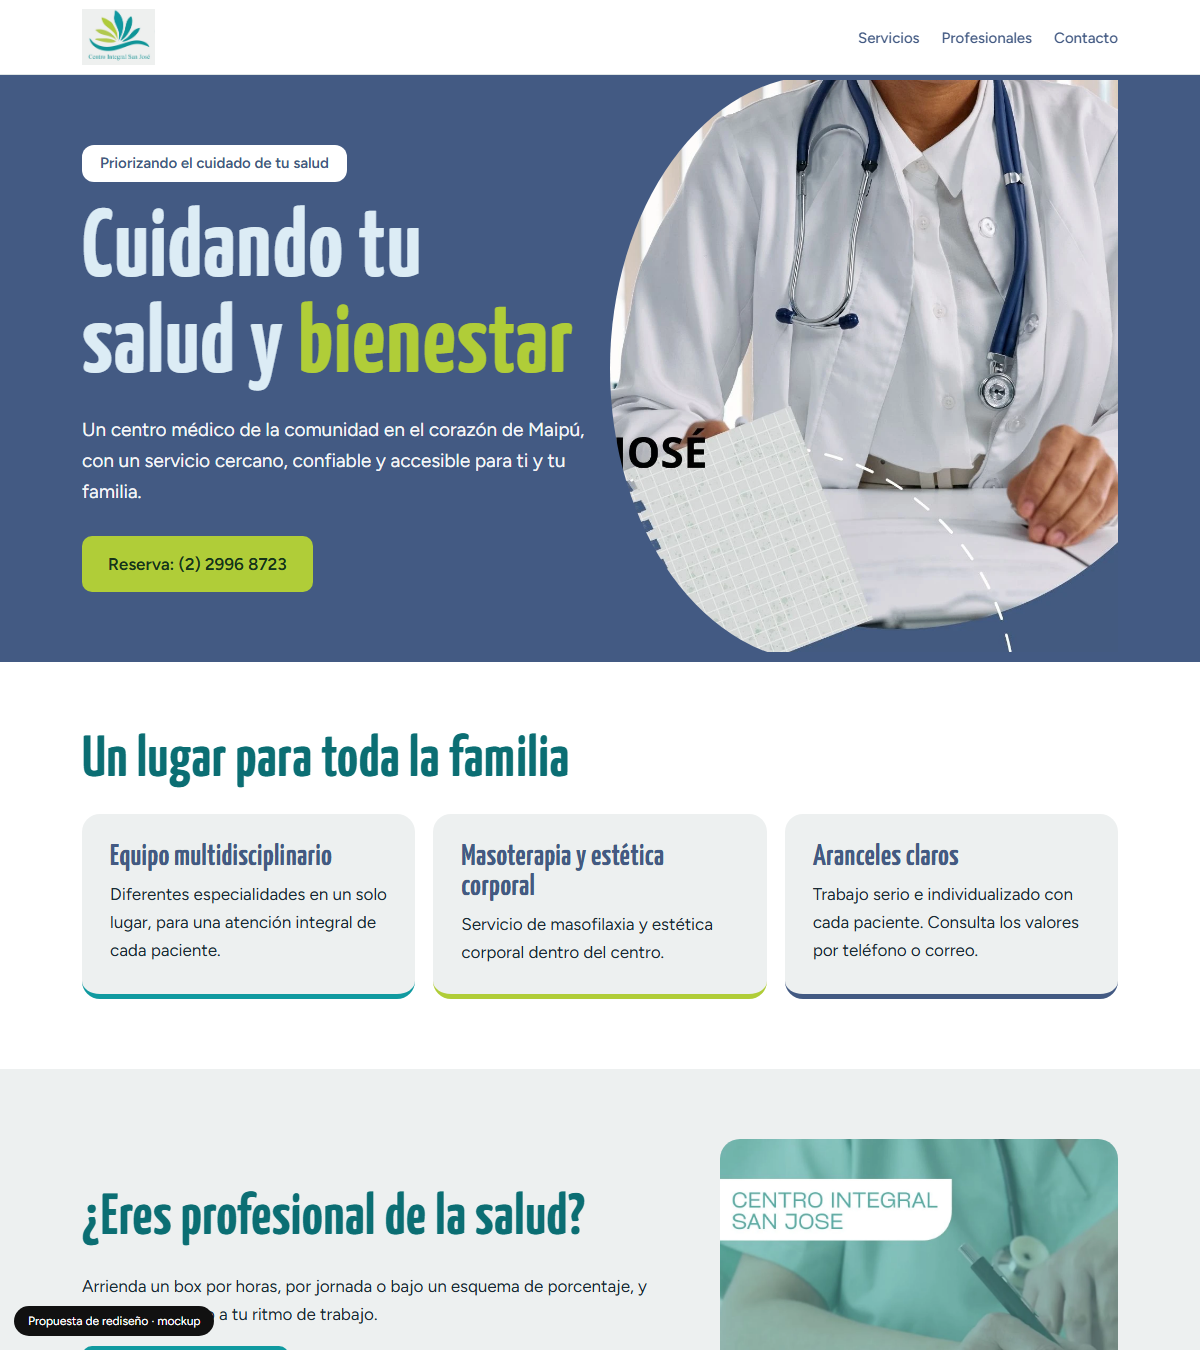
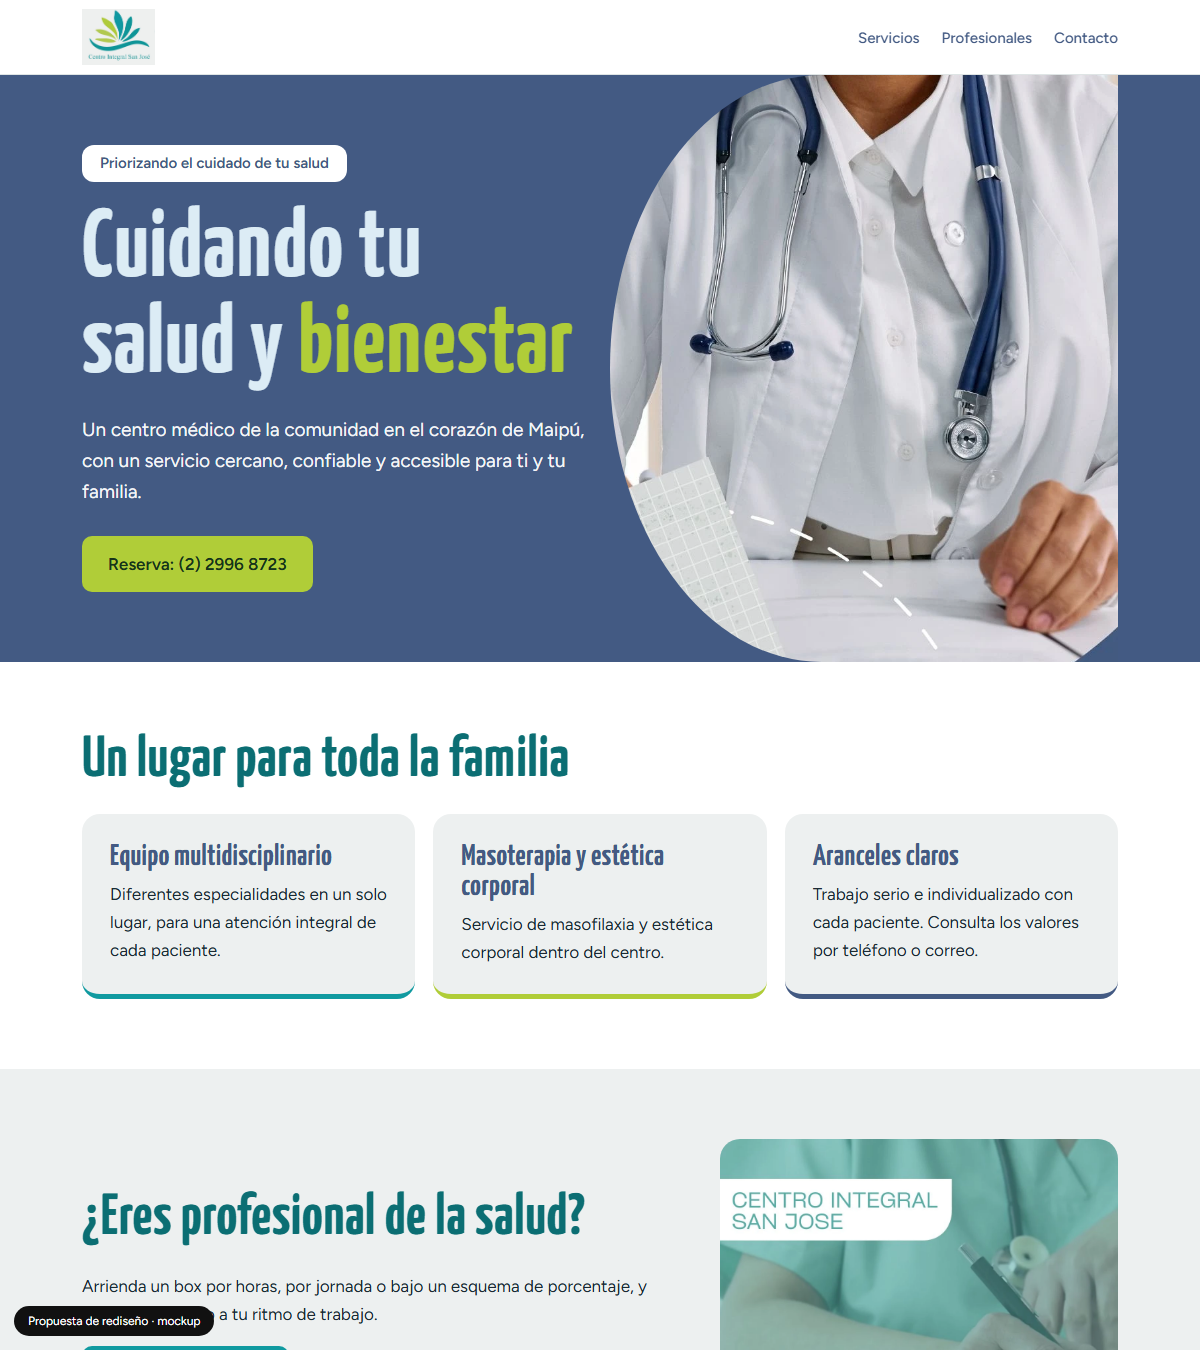
Mockup: centro-integral-san-jose-maipu

Changed region(s): [[0.4933, 0.0311, 0.9558, 0.4978]]

diff --git a/centro-integral-san-jose-maipu/index.html b/centro-integral-san-jose-maipu/index.html
@@ -23,7 +23,7 @@ header nav a:hover{color:var(--teal)}
 .hero h1{font-size:clamp(50px,8vw,100px);color:#dcecf5}.hero h1 b{color:var(--lime)}
 .hero p{margin:20px 0 28px;font-size:19px;max-width:42ch;opacity:.95}
 .hero .btn{background:var(--lime);color:#17331a}.hero .btn:hover{background:#fff}
-.hero .i{background:url(assets/banner.webp) 100% 30%/200% auto no-repeat;min-height:380px;border-radius:50% 0 0 50%/60% 0 0 60%}
+.hero .i{background:url(assets/banner.webp) 100% 20%/250% auto no-repeat;min-height:380px;border-radius:50% 0 0 50%/60% 0 0 60%}
 section{padding:70px 0}h2{font-size:clamp(36px,5vw,58px);margin-bottom:24px;color:var(--deep)}
 .three{display:grid;grid-template-columns:repeat(auto-fit,minmax(250px,1fr));gap:18px}
 .three div{background:var(--mist);border-radius:18px;padding:28px;border-bottom:5px solid var(--teal)}
